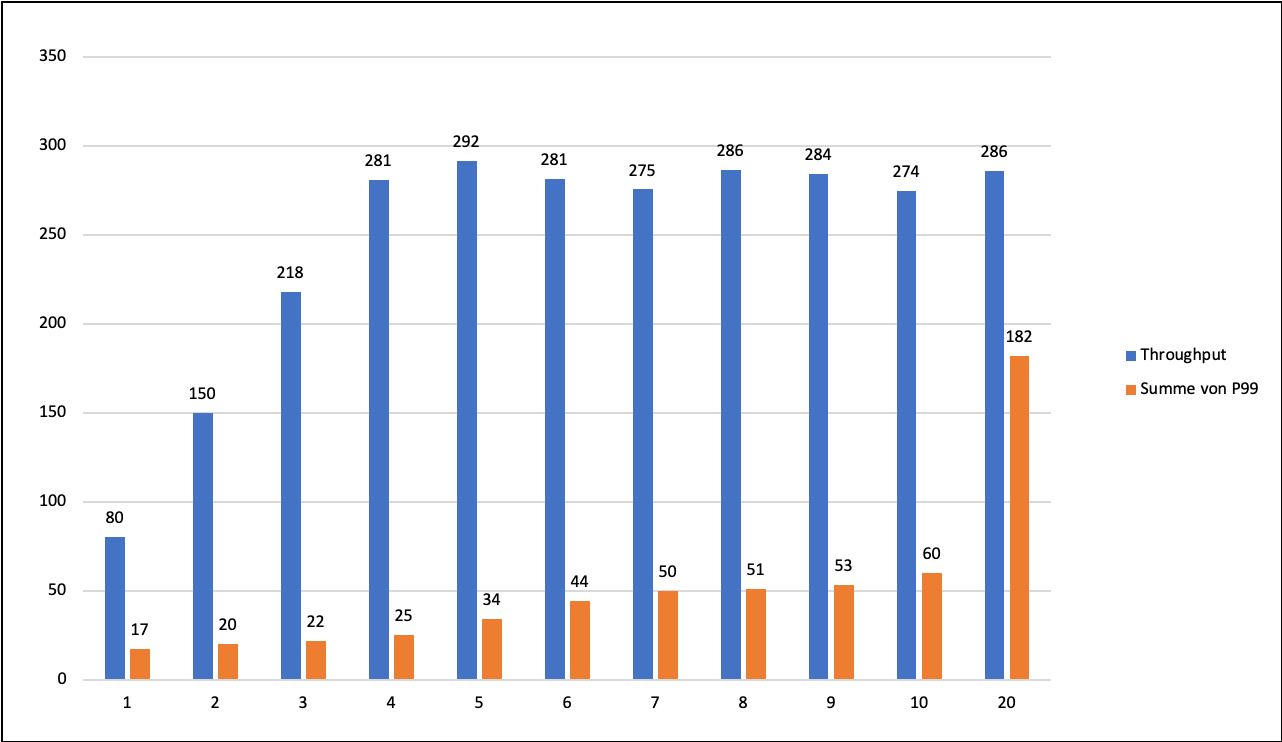
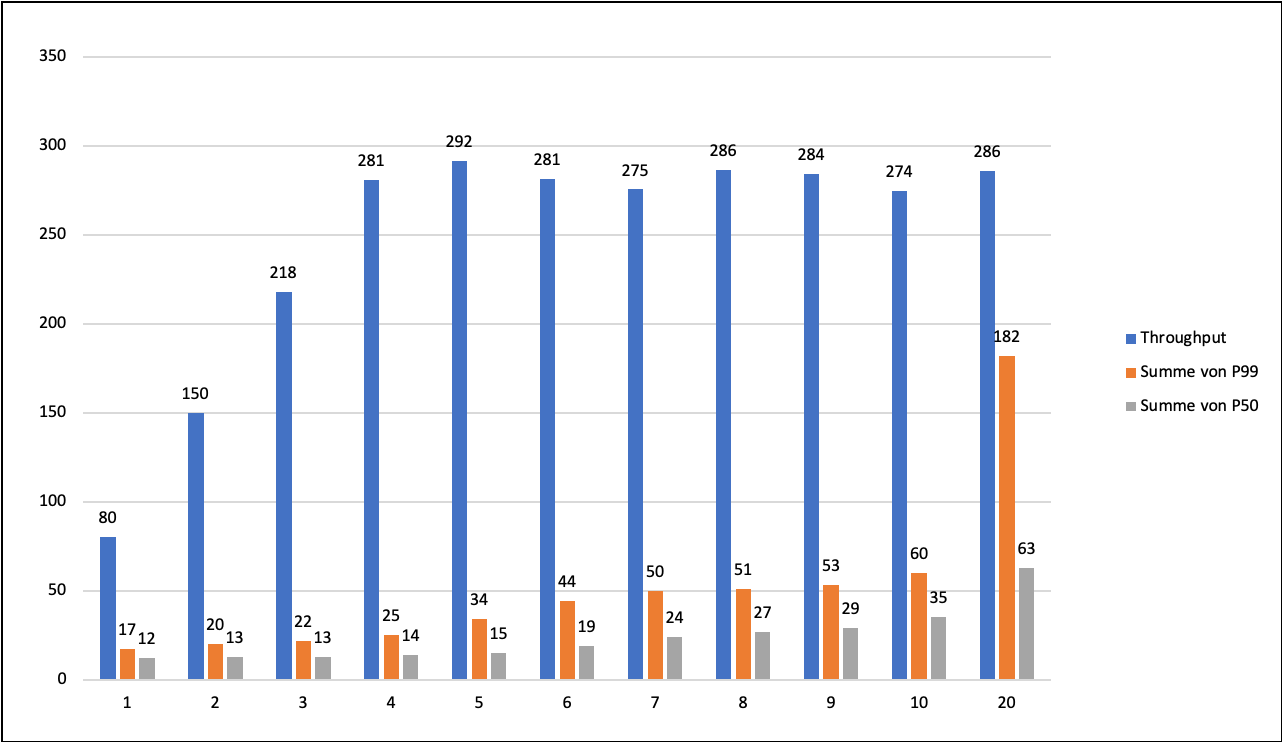
p50 added

Changed region(s): [[0.0624, 0.186, 0.8112, 0.9299], [0.8736, 0.434, 0.9984, 0.558]]

diff --git a/README.MD b/README.MD
@@ -49,10 +49,10 @@ The file result.csv in resources contains the results from a number of test runs
 
 Test results and 99% percentile latency for 250.000 triples
 ![Throughput and for 250000 triples](resources/results_250k.png "Throughpt for 250.000 triples")
-Max throughput is reached at arond 500 queries / second with a 20ms latency 
+Max throughput is reached at arond 500 queries / second with a 20ms (99% percentile) and 13ms (50% percentile) latency 
 
 Test results 99% percentile latency for 1.000.000 triples
 ![Throughput and for 1Mio triples](resources/results_1m.png "Throughpt for 1M triples")
-Max throughput is reached at around 290 queries / sec with a 99% latency of aroung 32msecs.
+Max throughput is reached at around 290 queries / sec with a 99% percentile latency of aroung 32msecs and a 50% percentile latency of 15ms 50% .
 
 
